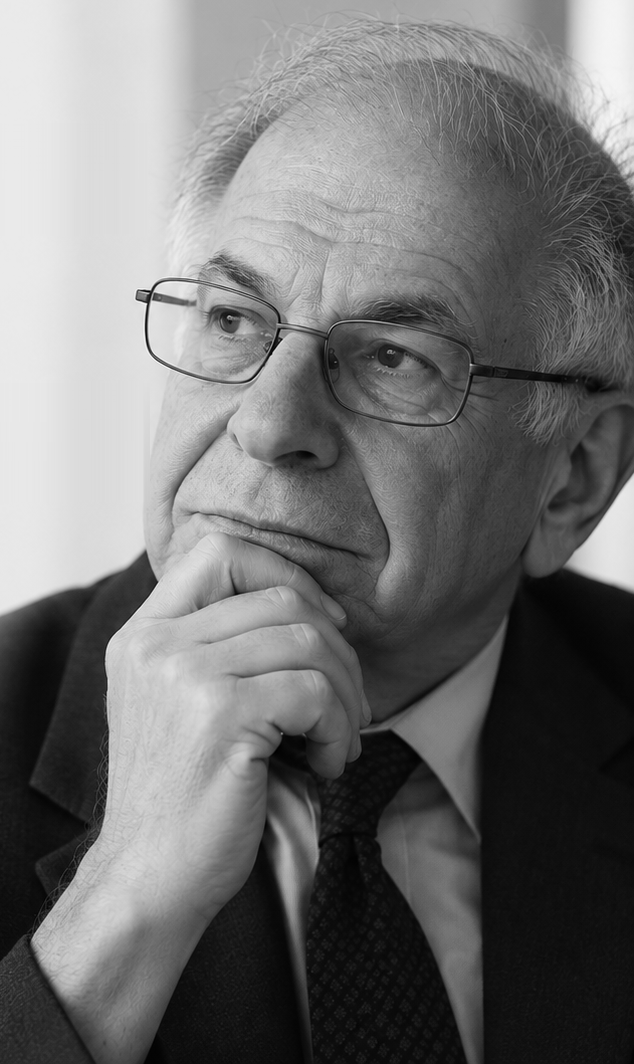
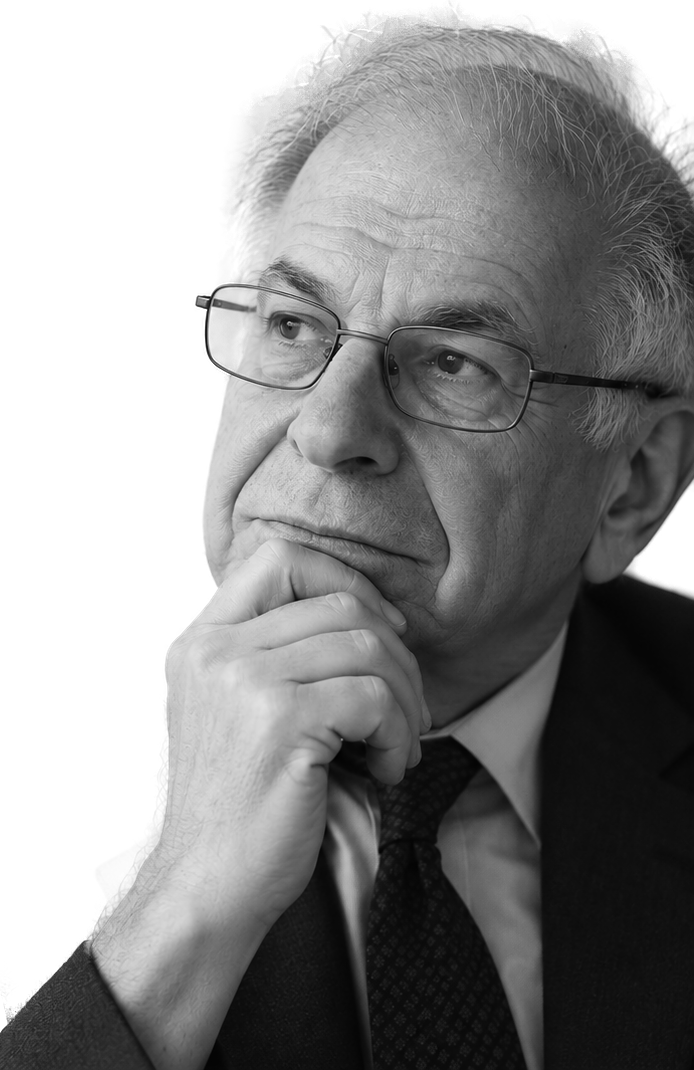
輪播貼文：封面人物改為乾淨去背
Claude-Session: https://claude.ai/code/session_01AFjNkU8XspDCm6xvkskaQj

diff --git a/IP經營/版型/輪播版型.html b/IP經營/版型/輪播版型.html
@@ -22,8 +22,6 @@
   .person {
     position: absolute; right: 0; bottom: 0; width: 430px; height: 520px;
     background: url(person.png) center top / 100% auto no-repeat;
-    -webkit-mask-image: linear-gradient(to right, transparent 0%, #000 30%), linear-gradient(to bottom, transparent 0%, #000 32%);
-    -webkit-mask-composite: source-in; mask-composite: intersect;
   }
   .who { position: absolute; left: 96px; bottom: 330px; }
   .who::before { content: ""; display: block; width: 72px; height: 1px; background: var(--ink); margin-bottom: 28px; }

diff --git a/IP經營/輪播_損失厭惡/slides.html b/IP經營/輪播_損失厭惡/slides.html
@@ -22,8 +22,6 @@
   .person {
     position: absolute; right: 0; bottom: 0; width: 430px; height: 520px;
     background: url(person.png) center top / 100% auto no-repeat;
-    -webkit-mask-image: linear-gradient(to right, transparent 0%, #000 30%), linear-gradient(to bottom, transparent 0%, #000 32%);
-    -webkit-mask-composite: source-in; mask-composite: intersect;
   }
   .who { position: absolute; left: 96px; bottom: 330px; }
   .who::before { content: ""; display: block; width: 72px; height: 1px; background: var(--ink); margin-bottom: 28px; }
